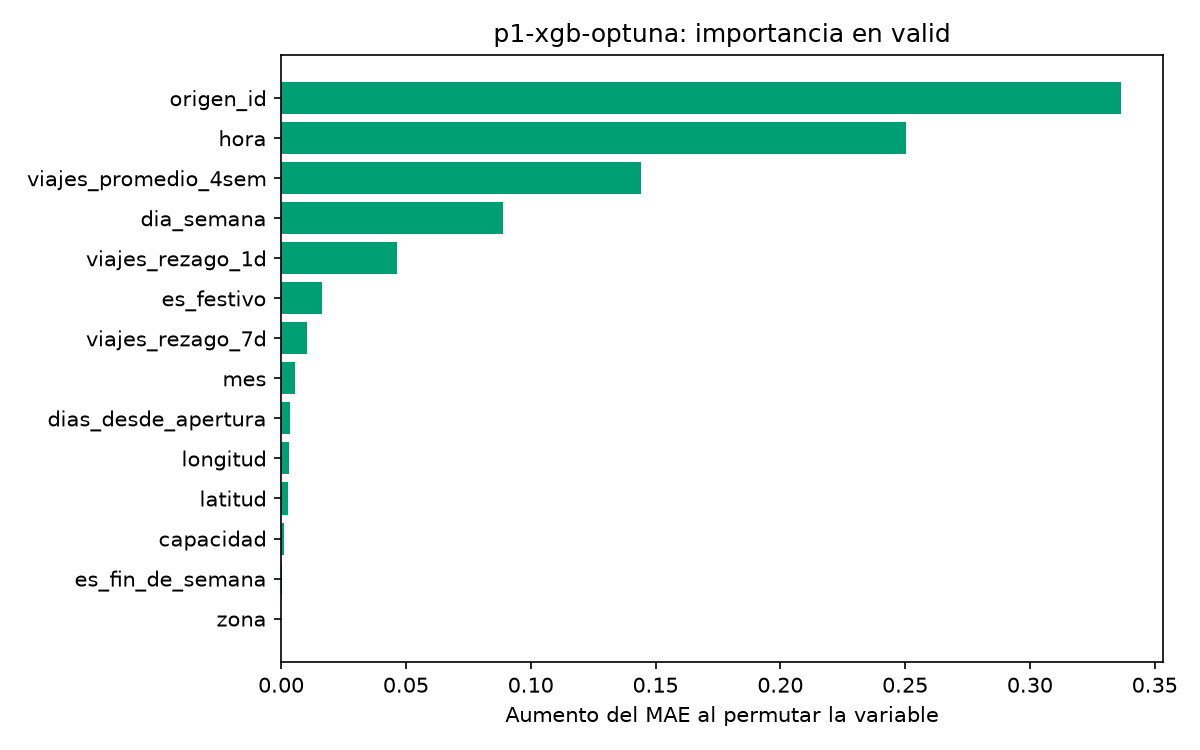
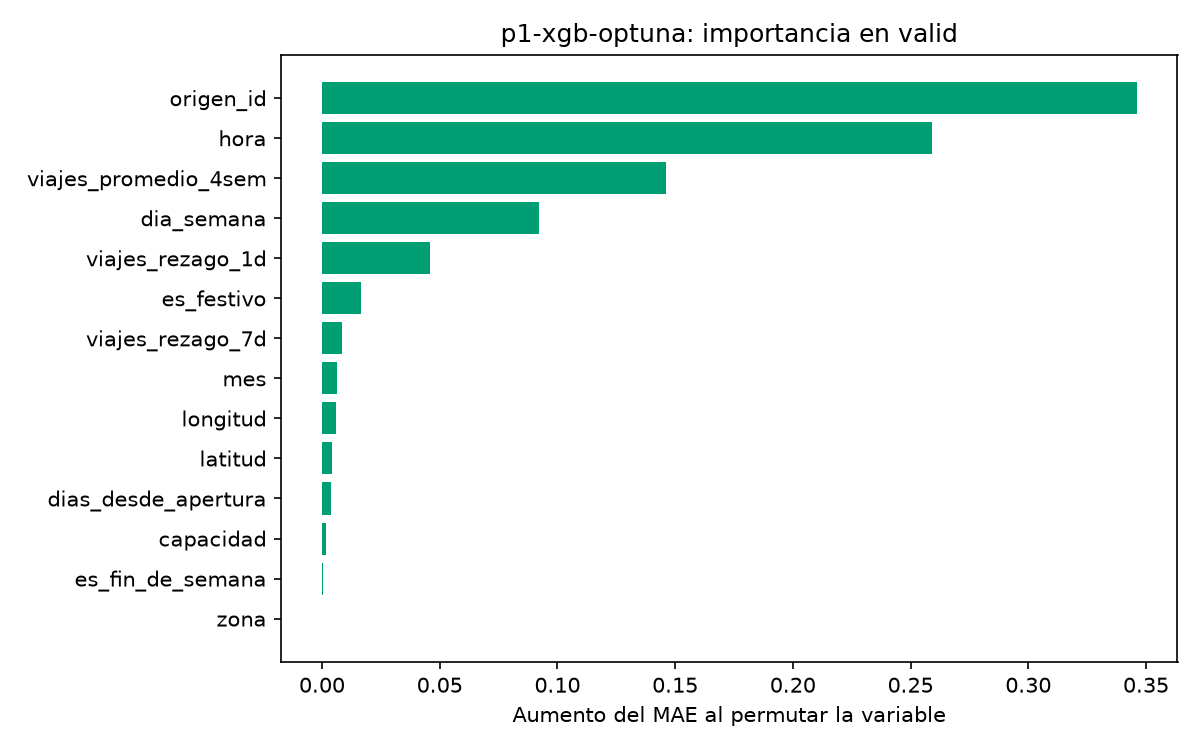
docs: v2 champion de P1 (búsqueda de 40 trials) y sus diagnósticos

diff --git a/README.md b/README.md
@@ -490,31 +490,34 @@ Se elige por `valid_mae`; test solo se reporta. Las métricas de baseline, HGB y
 
 | Modelo | valid_mae | valid_rmse | test_mae | test_rmse | Segundos de entrenamiento |
 |---|---:|---:|---:|---:|---:|
-| **XGBoost con Optuna, 20 trials (champion v1)** | **0.9635** | 1.5177 | **0.9863** | 1.6371 | 106.9 |
+| **XGBoost con Optuna, 40 trials (champion v2)** | **0.9617** | 1.5181 | **0.9861** | 1.6440 | 83.7 |
+| XGBoost con Optuna, 20 trials (v1) | 0.9635 | 1.5177 | 0.9863 | 1.6371 | 106.9 |
 | XGBoost Poisson | 0.9761 | 1.5639 | 0.9952 | 1.6781 | 119.5 |
 | HGB Poisson | 0.9928 | 1.6157 | 1.0082 | 1.7138 | 988.4 |
 | Baseline promedio 4 semanas | 1.0189 | 1.6539 | 1.0146 | 1.7500 | 1.8 |
 
 Por zona (suma diaria de las estaciones, en test):
 
-| Zona | MAE diario XGBoost | MAE diario XGBoost con Optuna | Viajes diarios promedio | Error relativo (Optuna) |
-|---|---:|---:|---:|---:|
-| GDL | 1348.2 | 1009.9 | 11012.2 | 9 % |
-| ZPN | 156.0 | 139.1 | 1144.6 | 12 % |
-| TLQ | 23.4 | 27.2 | 142.6 | 19 % |
+| Zona | MAE diario XGBoost | MAE diario Optuna v1 | MAE diario Optuna v2 | Viajes diarios promedio | Error relativo (v2) |
+|---|---:|---:|---:|---:|---:|
+| GDL | 1348.2 | 1009.9 | 1039.1 | 11012.2 | 9 % |
+| ZPN | 156.0 | 139.1 | 138.3 | 1144.6 | 12 % |
+| TLQ | 23.4 | 27.2 | 26.2 | 142.6 | 18 % |
 
-**Selección del campeón:** `p1-xgb-optuna` (20 trials).
+**Selección del campeón.** El campeón se eligió en dos iteraciones, siempre con el criterio fijado de antemano (`valid_mae`): la búsqueda de 20 trials dio la v1; como su mejor trial fue el último, la búsqueda se amplió a 40 trials y su candidato es la v2, el campeón actual.
 
-- **Mejora sobre el baseline:** 5.4 % menos MAE en valid y 2.8 % en test; sobre XGBoost con los hiperparámetros por defecto, 1.3 % en valid.
-- **Métrica de negocio:** el error diario por zona baja 25 % en GDL (de 12 % a 9 % de los viajes del día) y 11 % en ZPN. En TLQ sube de 23 a 27 viajes por día; es la zona con menos viajes (1 % del total).
+- **Mejora sobre el baseline:** 5.6 % menos MAE en valid y 2.8 % en test; sobre XGBoost con los hiperparámetros por defecto, 1.5 % en valid.
+- **Frente a la v1:** la mejora es marginal (0.2 % en valid y prácticamente nula en test: 0.9861 contra 0.9863), y el RMSE queda casi igual. En la práctica las dos versiones son equivalentes; se promueve la v2 porque así lo indica el criterio, sin cambiarlo después de ver test.
+- **Métrica de negocio:** frente a XGBoost por defecto, el error diario por zona baja 23 % en GDL (de 12 % a 9 % de los viajes del día) y 11 % en ZPN. En TLQ sube de 23 a 26 viajes por día; es la zona con menos viajes (1 % del total). En GDL la v1 tenía un error diario algo menor (1009.9 contra 1039.1), otra señal de que las dos versiones son equivalentes; al ser un resultado de test, no se usa para elegir.
 - **Estabilidad:** test sigue la misma dirección que valid y el orden de los modelos es el mismo en los dos conjuntos.
-- **Costo:** entrena en menos de 2 minutos, como el XGBoost por defecto, y la búsqueda completa de 20 trials tardó unos 35 minutos.
+- **Costo:** entrena en menos de 1.5 minutos; la búsqueda de 20 trials tardó unos 35 minutos y la de 40, unos 48.
 
 **Model Registry** (MLflow, s.f.-a). El modelo registrado es `mibici-equipo07-p1-demanda`. Cada versión apunta al modelo de un run y lleva en su descripción las métricas, y en sus etiquetas el linaje: `commit`, `data_version`, `source_run_id`, `busqueda_run_id`, `question`, `fase` y `valid_mae`. El alias `champion` señala la versión vigente.
 
 | Versión | Run de origen | Alias |
 |---|---|---|
-| 1 | `p1-xgb-optuna`, 20 trials (`32b4517a11e54fd686b7f1bd7a84224d`) | `champion` |
+| 1 | `p1-xgb-optuna`, 20 trials (`32b4517a11e54fd686b7f1bd7a84224d`) | — (queda en el historial) |
+| 2 | `p1-xgb-optuna`, 40 trials (`eae9b6f4f3244161a13b3d230f32f70f`) | `champion` |
 
 `register` no elige el campeón: registra el run que se le indica. Para promover otro, se registra su run (queda como versión nueva y el alias se mueve); con `-P alias=challenger` queda registrado sin reemplazar al campeón. El modelo se carga por alias, así que quien lo usa no cambia su código cuando se promueve una versión nueva:
 
@@ -533,6 +536,10 @@ Runs de la Fase 2:
 | `p1-xgb-poisson` | `0090816c11a945809f14beaacbb5245a` | `076053e` |
 | `p1-xgb-optuna-busqueda` (20 trials) | `d44b205545a6402392ee30ee63eca411` | `29d4d35` |
 | `p1-xgb-optuna` (20 trials) | `32b4517a11e54fd686b7f1bd7a84224d` | `29d4d35` |
+| `p1-xgb-optuna-busqueda` (40 trials) | `97790dffc87d45b5af2dfa58a4fabe64` | `aa9a646` |
+| `p1-xgb-optuna` (40 trials) | `eae9b6f4f3244161a13b3d230f32f70f` | `339dab8` |
+
+Durante la búsqueda de 40 trials se hizo un commit que solo cambió documentación (`339dab8`): los primeros trials llevan la etiqueta `aa9a646` y los últimos, con el candidato, `339dab8`. El código es el mismo en los dos commits, así que los resultados no cambian; para evitarlo, no se hacen commits mientras corre una búsqueda.
 
 ## P2: riesgo de estación (clasificación)
 
